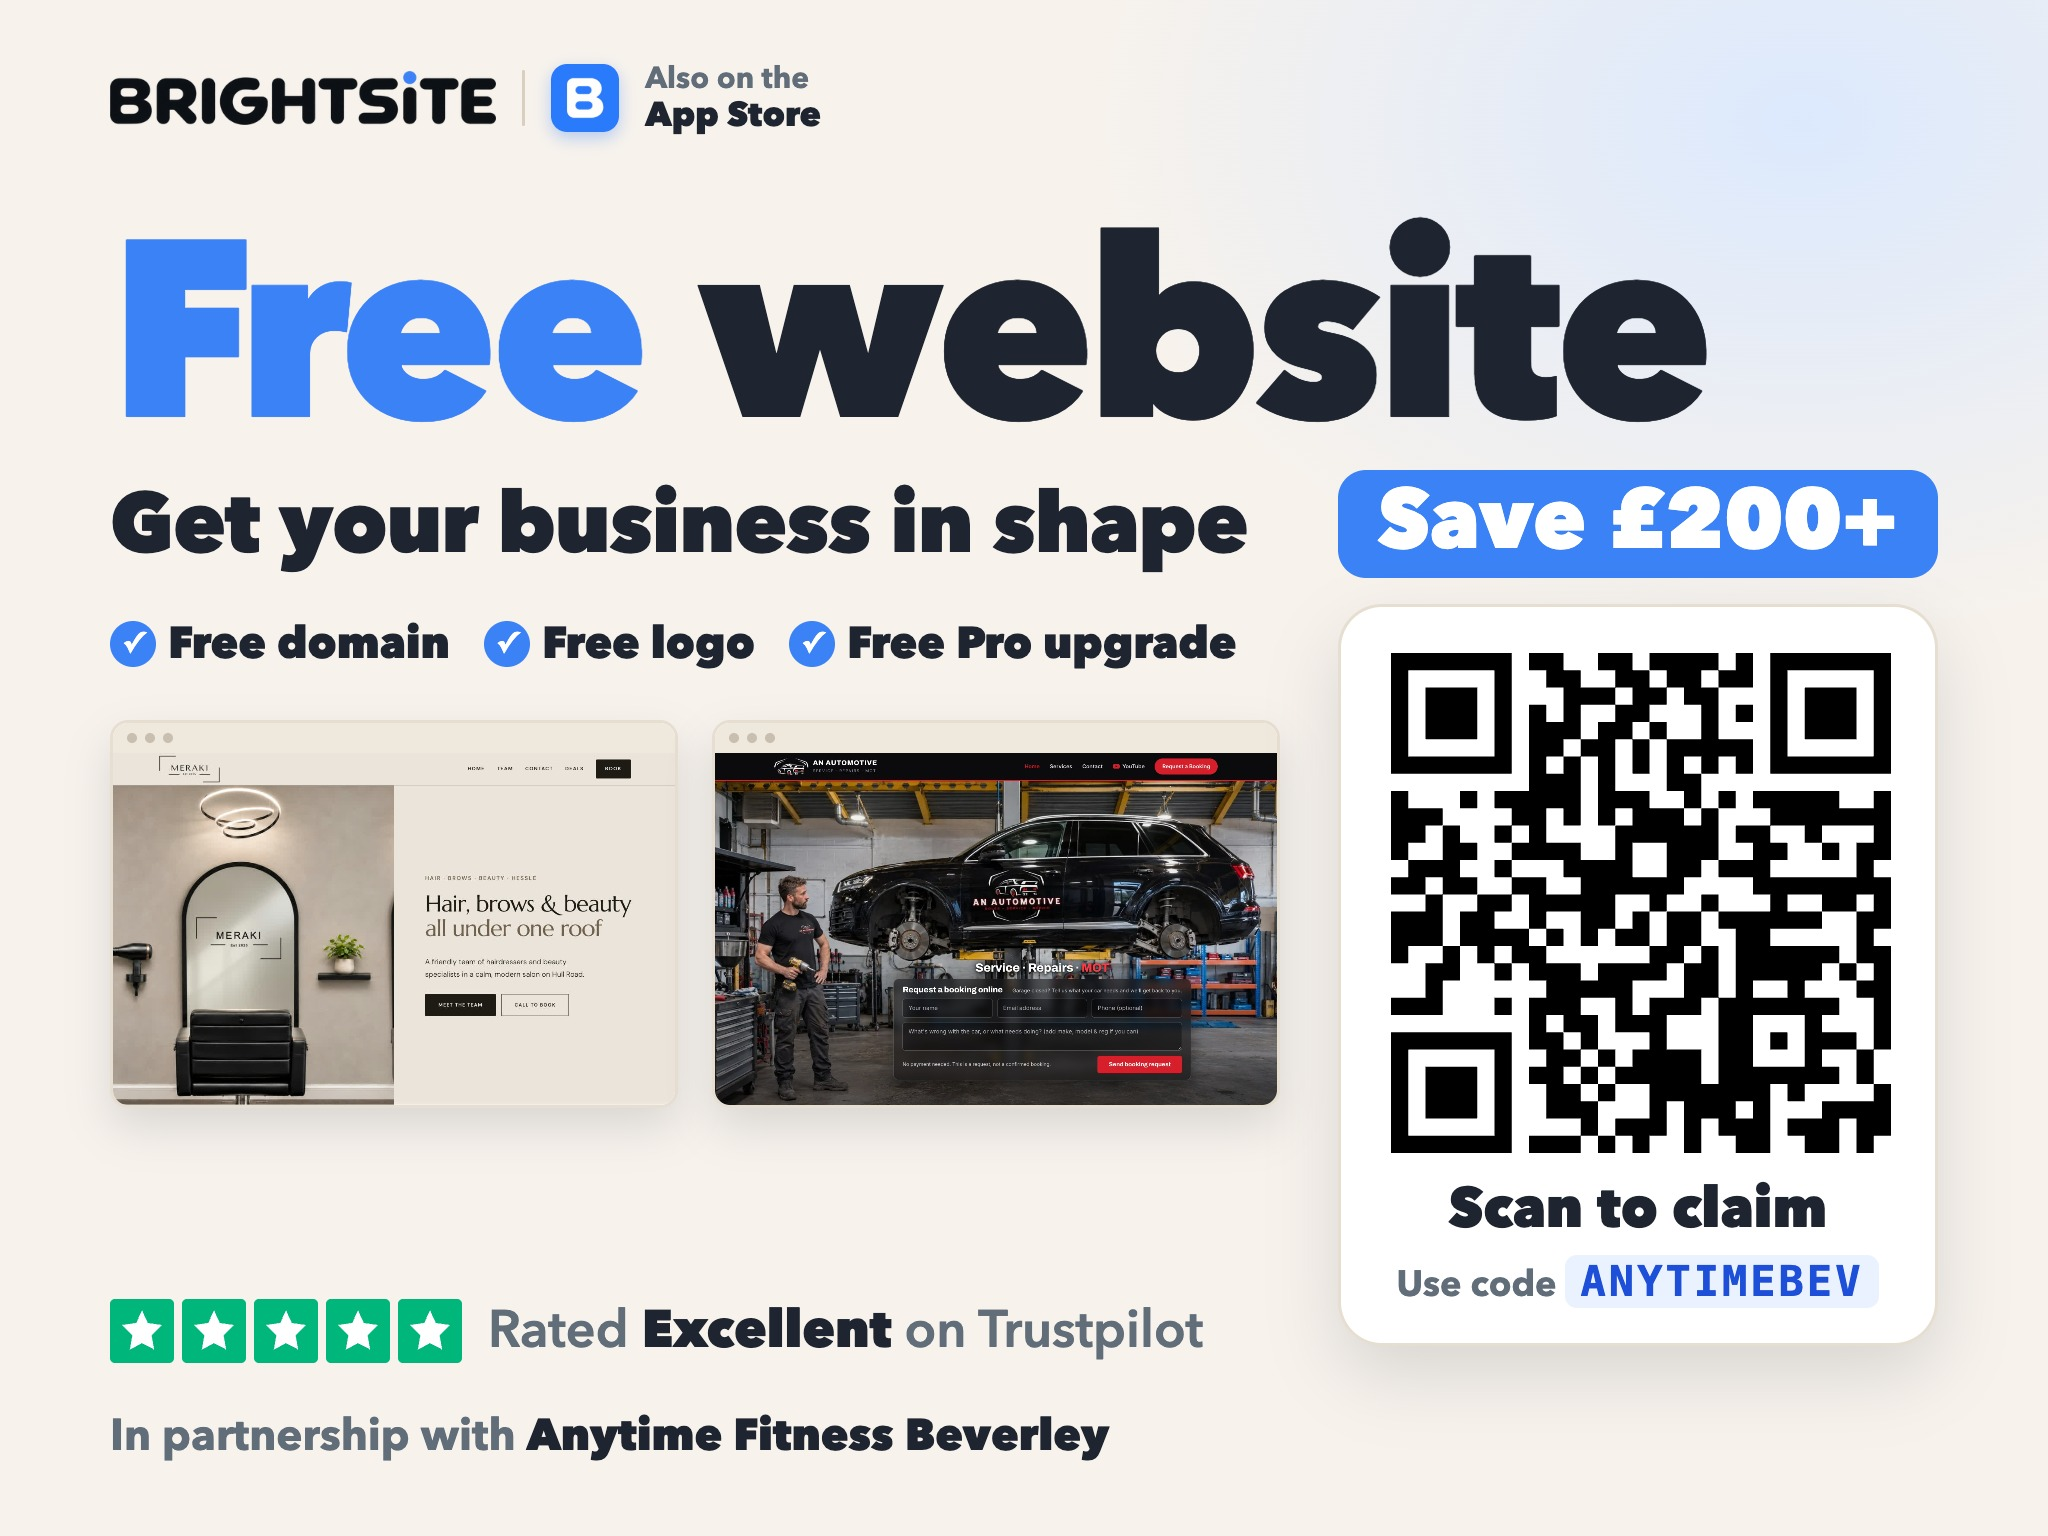
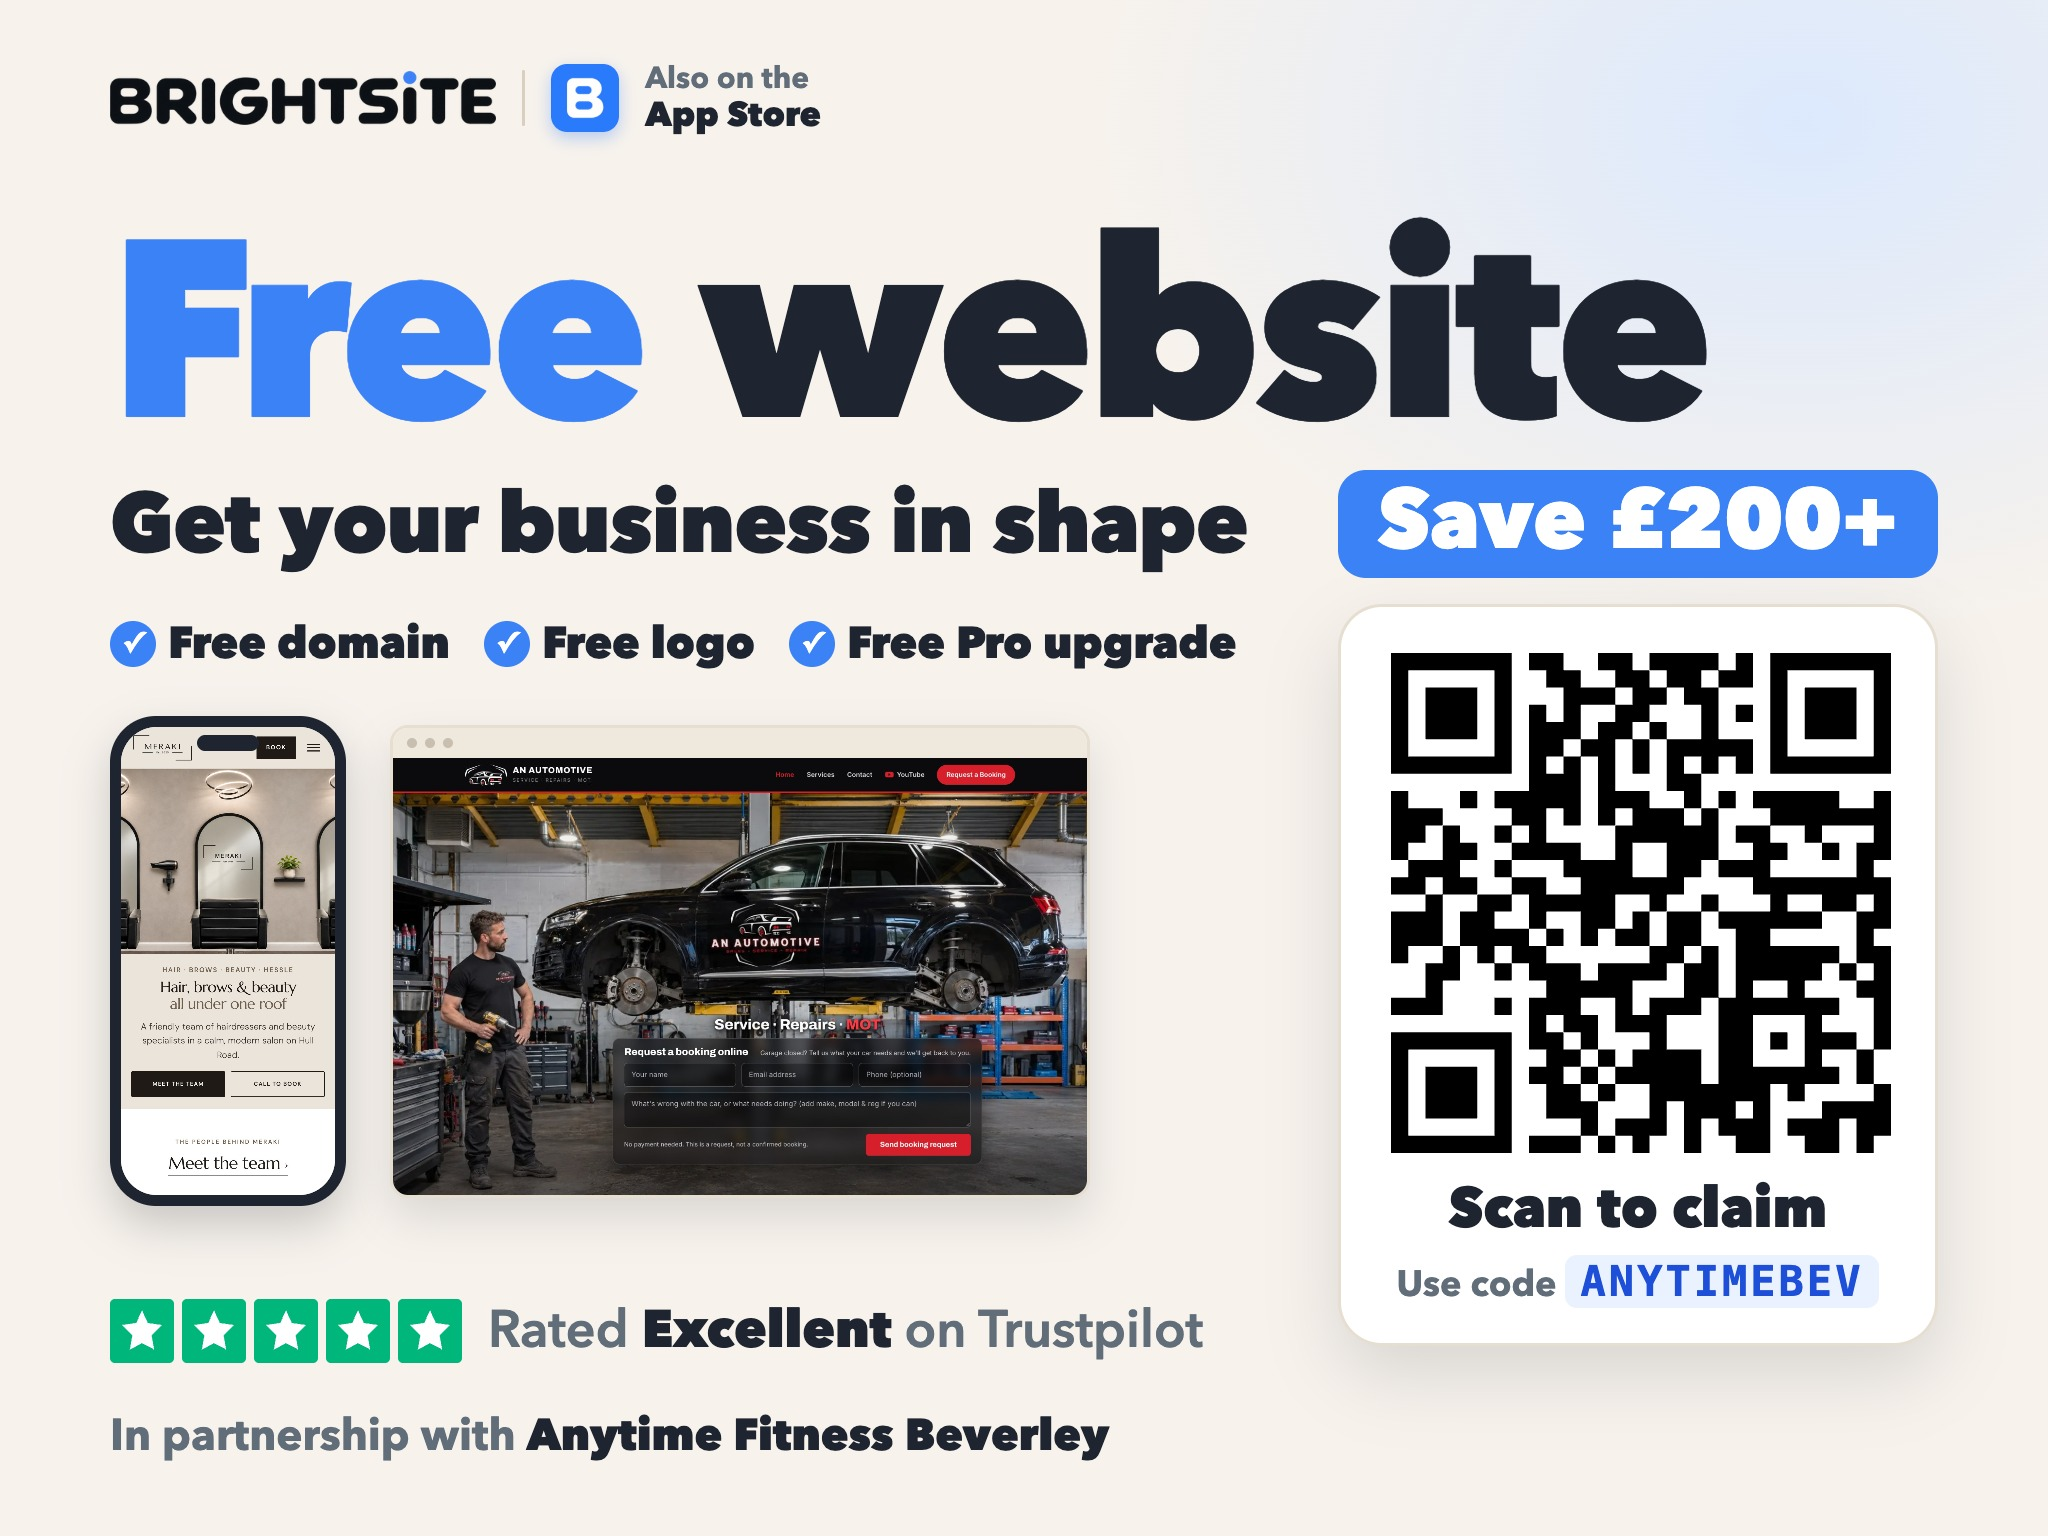
Beverley poster: Meraki shown as a phone mockup beside the AN Automotive desktop site

Changed region(s): [[0.0312, 0.4688, 0.625, 0.8125]]

diff --git a/ads/beverley-poster.html b/ads/beverley-poster.html
@@ -18,11 +18,11 @@
   .perks{position:absolute;left:110px;top:614px;display:flex;gap:34px}
   .perks div{font-size:44px;font-weight:800;display:flex;align-items:center;gap:12px;white-space:nowrap}
   .perks i{font-style:normal;width:46px;height:46px;border-radius:50%;background:#3B82F6;color:#fff;display:flex;align-items:center;justify-content:center;font-size:29px;font-weight:900;flex:none}
-  .sites{position:absolute;left:110px;top:720px;display:flex;gap:34px}
-  .site{width:568px;background:#fff;border-radius:18px;overflow:hidden;border:3px solid #E7DED2;box-shadow:0 20px 44px rgba(31,37,48,.14)}
+  .sites{position:absolute;left:110px;top:716px;display:flex;gap:44px;align-items:center}
+  .site{width:700px;background:#fff;border-radius:18px;overflow:hidden;border:3px solid #E7DED2;box-shadow:0 20px 44px rgba(31,37,48,.14)}
   .site .bar{height:30px;background:#EFE8DD;display:flex;align-items:center;gap:8px;padding:0 14px}
   .site .bar i{width:10px;height:10px;border-radius:50%;background:#C9BFB0;display:block}
-  .site img{display:block;width:100%;height:352px;object-fit:cover;object-position:top}
+  .site img{display:block;width:100%;height:437px;object-fit:cover;object-position:top}
   .col{position:absolute;right:110px;top:470px;width:600px}
   .save{background:#3B82F6;color:#fff;font-size:84px;font-weight:900;text-align:center;border-radius:28px;padding:6px 0 10px;line-height:1.1}
   .qr{margin-top:26px;background:#fff;border:3px solid #E7DED2;box-shadow:0 30px 70px rgba(31,37,48,.14);border-radius:44px;padding:46px 50px 34px;text-align:center}
@@ -37,6 +37,10 @@
   .tp-text b{color:#1F2530;font-weight:900}
   .foot{position:absolute;left:110px;bottom:70px;font-size:44px;font-weight:700;color:#616D79}
   .foot b{color:#1F2530}
+  .phone{width:236px;height:490px;background:#1F2530;border-radius:46px;padding:11px;box-shadow:0 20px 44px rgba(31,37,48,.22);position:relative}
+  .phone .screen{width:100%;height:100%;border-radius:36px;overflow:hidden;background:#fff}
+  .phone img{display:block;width:100%;height:100%;object-fit:cover;object-position:top}
+  .phone::after{content:"";position:absolute;top:19px;left:50%;transform:translateX(-50%);width:62px;height:16px;border-radius:10px;background:#1F2530}
 </style></head>
 <body><div class="poster">
   <div class="logo"><img class="word" src="../img/brightsite-logo.png"><span class="sep"></span><img class="appicon" src="../img/app-logo.png"><span class="apptxt">Also on the<b>App Store</b></span></div>
@@ -48,7 +52,7 @@
     <div><i>&#10003;</i>Free Pro upgrade</div>
   </div>
   <div class="sites">
-    <div class="site"><div class="bar"><i></i><i></i><i></i></div><img src="meraki-hero.jpg"></div>
+    <div class="phone"><div class="screen"><img src="meraki-mobile.jpg"></div></div>
     <div class="site"><div class="bar"><i></i><i></i><i></i></div><img src="an-automotive-hero.jpg"></div>
   </div>
   <div class="col">
